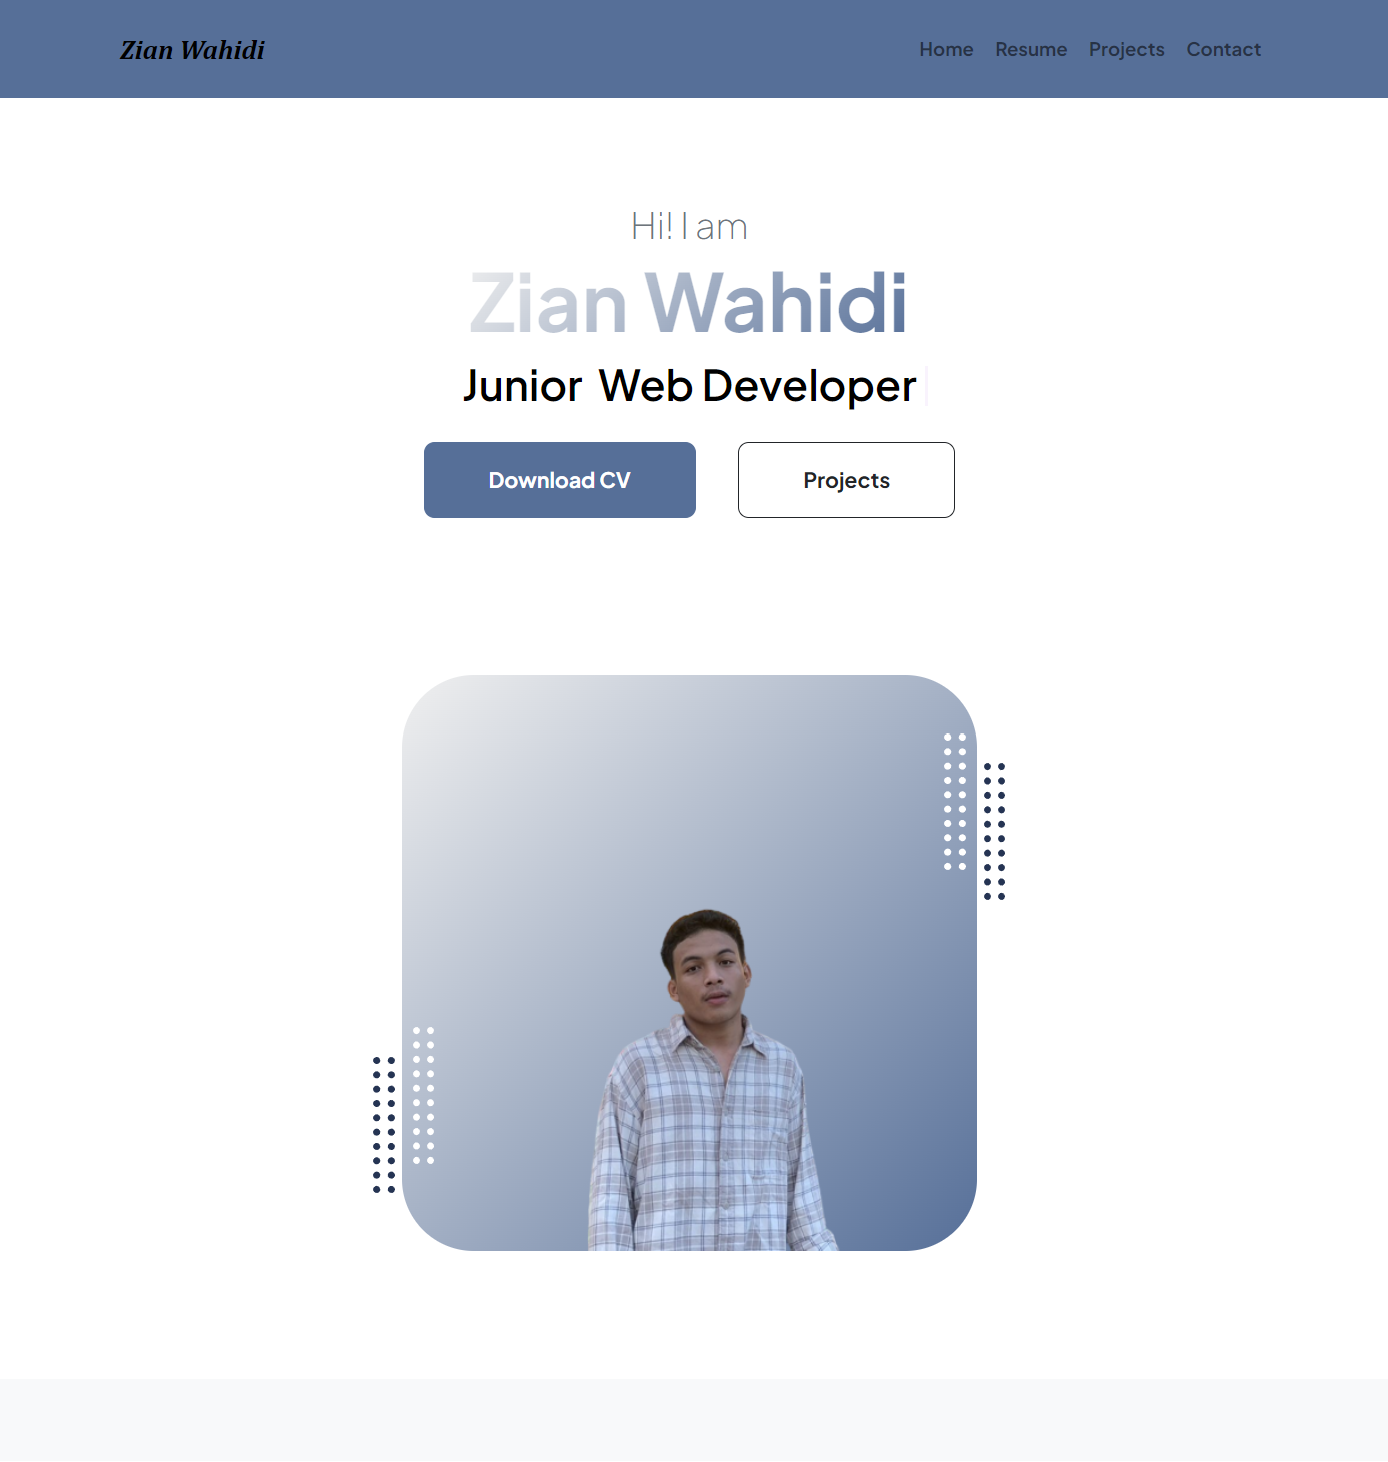
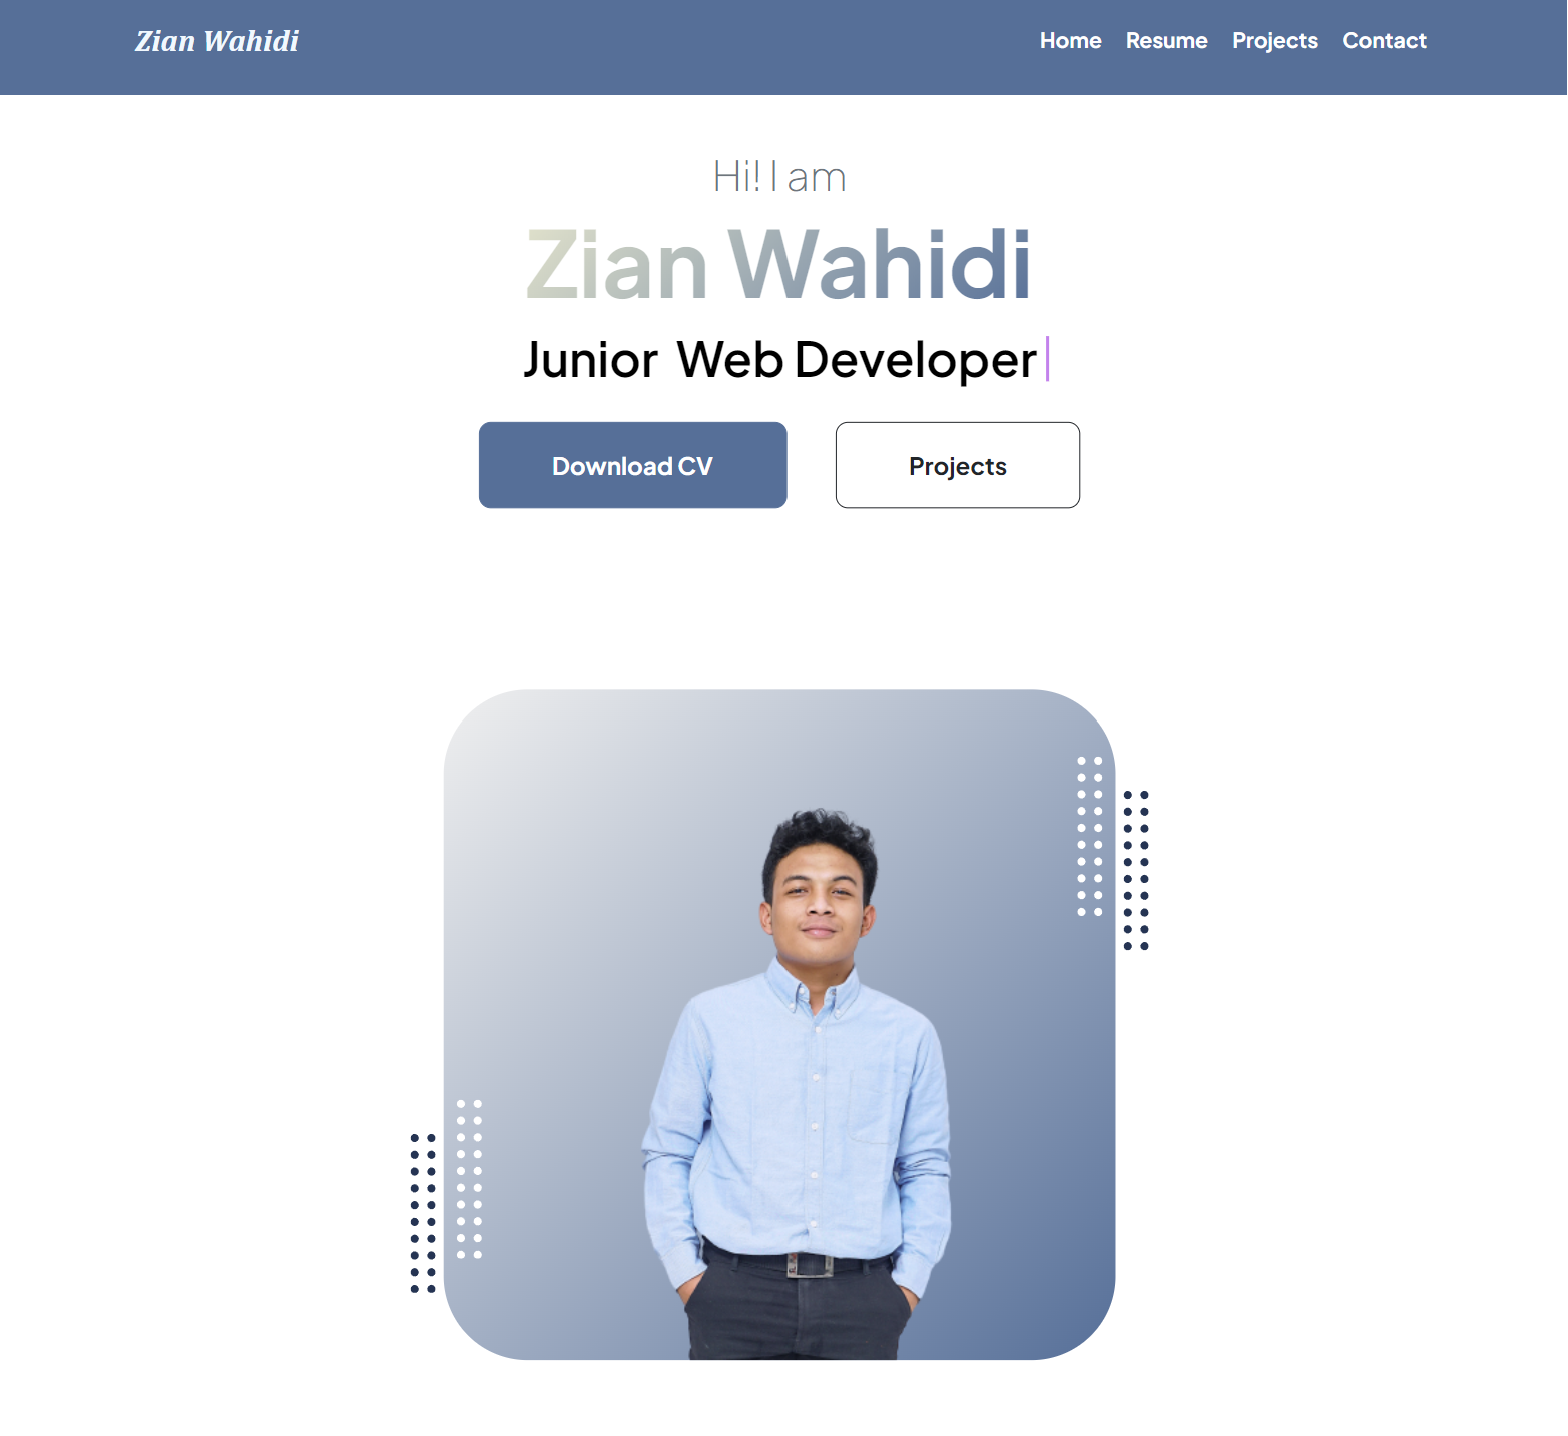
mengganti text-primary

diff --git a/projects.html b/projects.html
@@ -63,7 +63,7 @@
             <nav class="navbar navbar-expand-lg navbar-light bg-white py-3 fixed-top">
                 <div class="container px-5">
                     <a class="navbar-brand" href="./projects.html">
-                        <span class="fw-bolder text-primary" style="font-family: 'Cambria', sans-serif; font-weight: bold; font-style: italic;">Zian Wahidi</span></a>                    
+                        <span class="fw-bolder" style="font-family: 'Cambria', sans-serif; font-weight: bold; font-style: italic; color: aliceblue;">Zian Wahidi</span></a>                    
                         <button class="navbar-toggler" type="button" data-bs-toggle="collapse" data-bs-target="#navbarSupportedContent" aria-controls="navbarSupportedContent" aria-expanded="false" aria-label="Toggle navigation"><span class="navbar-toggler-icon"></span></button>
                     <div class="collapse navbar-collapse" id="navbarSupportedContent">
                         <ul class="navbar-nav ms-auto mb-2 mb-lg-0 small fw-bolder" style="font-weight: bold;">

diff --git a/resume.html b/resume.html
@@ -32,7 +32,7 @@
              <nav class="navbar navbar-expand-lg navbar-light bg-white py-3 fixed-top">
                 <div class="container px-5">
                     <a class="navbar-brand" href="./resume.html">
-                        <span class="fw-bolder text-primary" style="font-family: 'Cambria', sans-serif; font-weight: bold; font-style: italic;">Zian Wahidi</span></a>                    
+                        <span class="fw-bolder" style="font-family: 'Cambria', sans-serif; font-weight: bold; font-style: italic; color: aliceblue;">Zian Wahidi</span></a>                    
                         <button class="navbar-toggler" type="button" data-bs-toggle="collapse" data-bs-target="#navbarSupportedContent" aria-controls="navbarSupportedContent" aria-expanded="false" aria-label="Toggle navigation"><span class="navbar-toggler-icon"></span></button>
                     <div class="collapse navbar-collapse" id="navbarSupportedContent">
                         <ul class="navbar-nav ms-auto mb-2 mb-lg-0 small fw-bolder" style="font-weight: bold;">

diff --git a/index.html b/index.html
@@ -23,7 +23,7 @@
             <nav class="navbar navbar-expand-lg navbar-light bg-white py-3 fixed-top">
                 <div class="container px-5">
                     <a class="navbar-brand" href="index.html">
-                        <span class="fw-bolder text-primary" style="font-family: 'Cambria', sans-serif; font-weight: bold; font-style: italic;">Zian Wahidi</span></a>                    
+                        <span class="fw-bolder" style="font-family: 'Cambria', sans-serif; font-weight: bold; font-style: italic; color: aliceblue;">Zian Wahidi</span></a>                    
                         <button class="navbar-toggler" type="button" data-bs-toggle="collapse" data-bs-target="#navbarSupportedContent" aria-controls="navbarSupportedContent" aria-expanded="false" aria-label="Toggle navigation"><span class="navbar-toggler-icon"></span></button>
                     <div class="collapse navbar-collapse" id="navbarSupportedContent">
                         <ul class="navbar-nav ms-auto mb-2 mb-lg-0 small fw-bolder" style="font-weight: bold;">

diff --git a/contact.html b/contact.html
@@ -23,7 +23,7 @@
             <nav class="navbar navbar-expand-lg navbar-light bg-white py-3">
                 <div class="container px-5">
                     <a class="navbar-brand" href="./contact.html">                        
-                        <span class="fw-bolder text-primary" style="font-family: 'Cambria', sans-serif; font-weight: bold; font-style: italic;">Zian Wahidi</span></a>                    
+                        <span class="fw-bolder" style="font-family: 'Cambria', sans-serif; font-weight: bold; font-style: italic; color: aliceblue;">Zian Wahidi</span></a>                    
                     </a>
                     <button class="navbar-toggler" type="button" data-bs-toggle="collapse" data-bs-target="#navbarSupportedContent" aria-controls="navbarSupportedContent" aria-expanded="false" aria-label="Toggle navigation"><span class="navbar-toggler-icon"></span></button>
                     <div class="collapse navbar-collapse" id="navbarSupportedContent">

diff --git a/css/styles.css b/css/styles.css
@@ -11615,11 +11615,11 @@ html {
   max-width: 40rem;
 }
 .profile .profile-img {
-  height: 200vw;
-  max-height: 45rem;
+  height: 100vw;
+  max-height: 39rem;
   position: absolute;
   bottom: 0;
-  left: 50%;
+  left: 45%;
   transform: translateX(-50%);
 }
 .profile .dots-1 {
@@ -11737,7 +11737,7 @@ html {
     left: -2vw;
   }
 }
-@media (min-width: 1200px) {
+@media (min-width: 1350px) {
   .profile {
     height: 35vw;
     width: 35vw;
@@ -11803,5 +11803,5 @@ section, footer {
 
 .text-primary {
   --bs-text-opacity: 1;
-  color: white;
+  color: black;
 }
